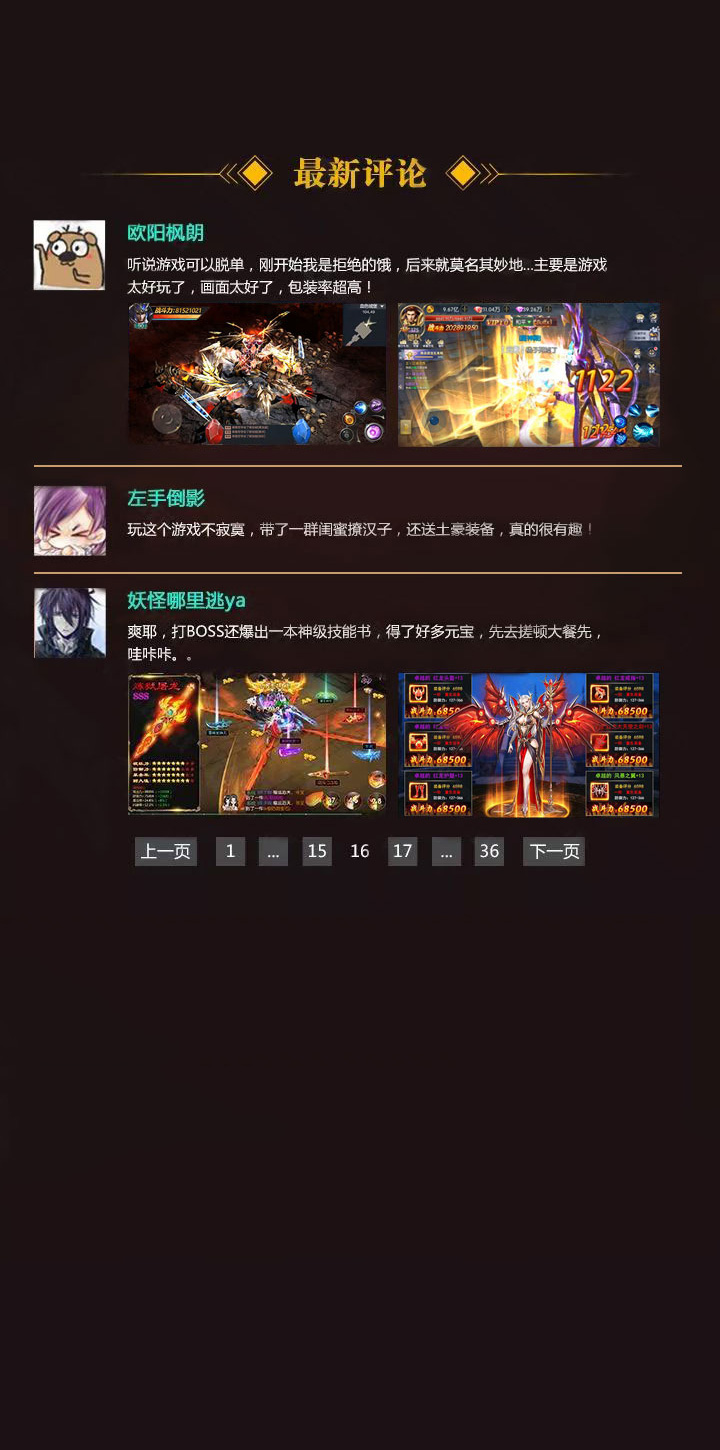
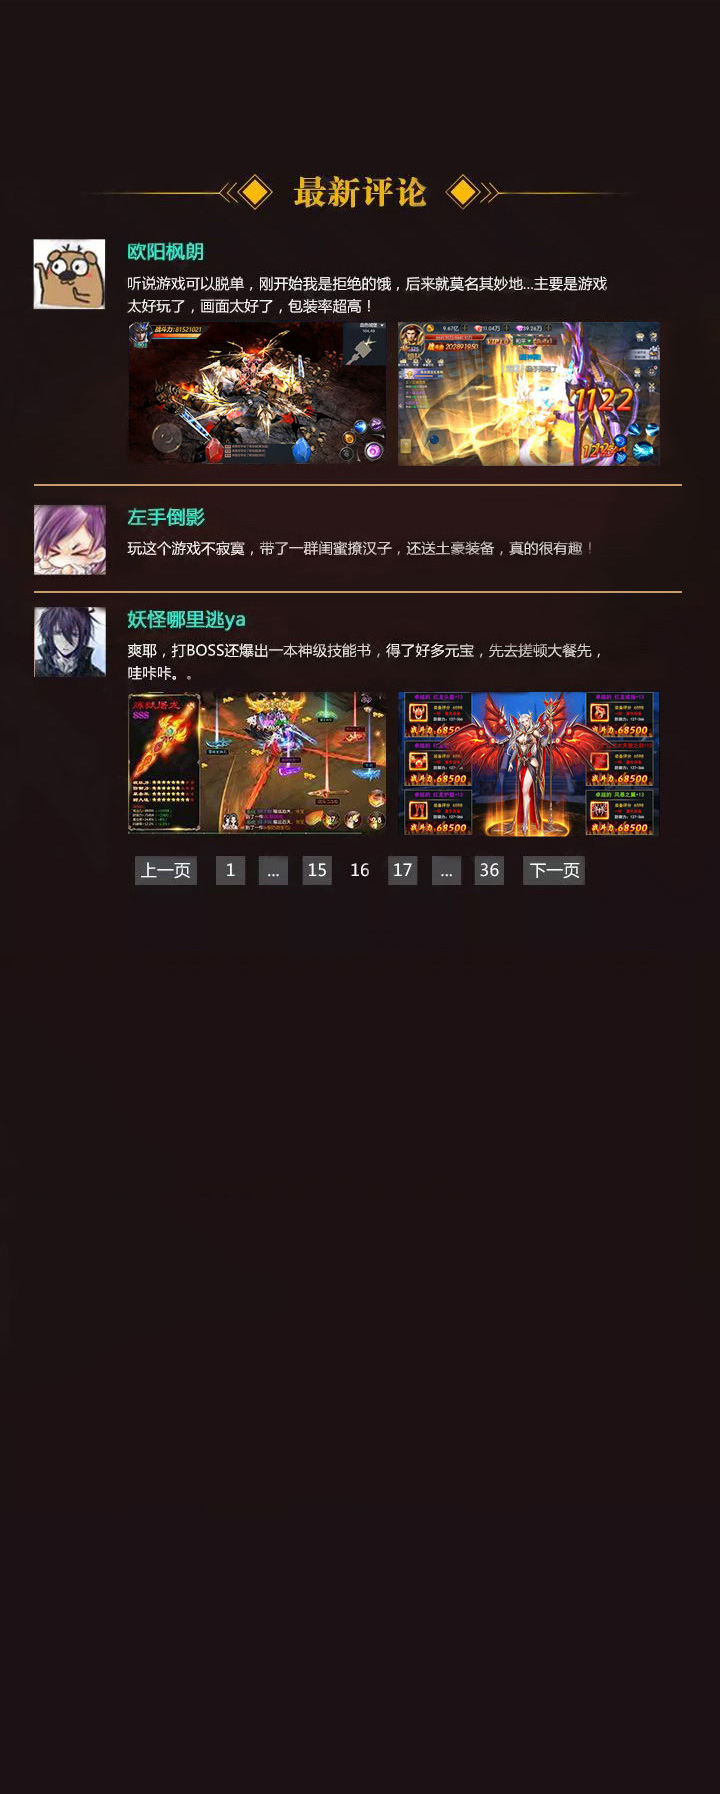
展示性h5修改

Changed region(s): [[0.0306, 0.0931, 0.9472, 0.6207]]

diff --git a/index.html b/index.html
@@ -1,146 +1,114 @@
+
 <!DOCTYPE html>
-<html lang="en">
-
+<html>
 <head>
-    <meta charset="UTF-8">
-    <meta name="viewport" content="width=device-width,initial-scale=1.0,maximum-scale=1.0,user-scalable=0">
-    <meta http-equiv="X-UA-Compatible" content="ie=edge">
-    <title>Document</title>
-    <link href="https://cdn.bootcss.com/animate.css/3.7.0/animate.min.css" rel="stylesheet">
-    <style>
-        body,div{margin:0;padding: 0;}
-        body{overflow: hidden;}
-        
-        .top{z-index:99;position: fixed;top:0;left:0;width:100%;}
-        .top img{width:100%;}
+<meta http-equiv="Content-Type" content="text/html; charset=utf-8" />
+<title>勇者大陆</title>
+<meta name='viewport' content='width=device-width, initial-scale=1.0, maximum-scale=1.0'/>
+<!--<link rel="stylesheet" href="/dist/css/swiper.min.css">
+<link rel="stylesheet" href="/dist/css/animate.min.css">
+<script src="/dist/js/swiper.min.js"></script>
+<script src="/dist/js/swiper.animate.min.js"></script>-->
 
-        .wrap{position: absolute;left: 0;top:0;width:100%;height:100%;transition: 1s;}
-        .wrap>div{width:100%;height:100%;overflow: hidden;position: relative;}
-        .wrap>div:nth-child(1){background:url(images/bg.jpg) no-repeat;background-size: 100% 100%;}
-        .wrap>div:nth-child(2){background:url(images/2.gif) no-repeat;background-size: 100% auto;}
-        .wrap>div:nth-child(3){background:url(images/3.jpg) no-repeat;background-size: 100% auto;}
-  
+<link rel="stylesheet" href="css/swiper.min.css">
+<link rel="stylesheet" href="css/animate.min.css">
+<script src="js/swiper.min.js"></script>
+<script src="js/swiper.animate.min.js"></script>
 
-        .con{}
-        .con img{width:100%;position: absolute;}
-        .con .btn{width:50%;;bottom:4%;left:50%;margin-left:-25%;}
+<style>
+*{margin:0;padding:0;}
+html,body{height:100%;}
+body{font-family:"microsoft yahei";}
+img{ pointer-events: none; }
 
-        .handle{position: fixed;z-index: 99;right: 16px;bottom:16px;}
-        .handle span{display: block;width:12px;height: 12px;background: #ccc;border-radius: 10px;margin:8px auto;}
-        .handle span.active{background: #fff;width:20px;height: 20px;}
+.top{width:100%;position: fixed;top:0;left: 0;right: 0;z-index:99;}
+.top img{width:100%;}
 
-        #scroll{color:#999;font-size:30px;position: fixed;bottom: 0px;left: 50%;transform: rotate(90deg)!important;}
-    </style>
+.swiper-container {
+  /*  width: 320px;
+    height: 480px;*/
+	width: 100%;
+  height: 100%;
+	background:#fff;
+}  
+.swiper-slide{width:100%;height:100%;}
+.swiper-slide:nth-child(1){background:url(images/bg.jpg) no-repeat left top;background-size:100% 100%;}
+.swiper-slide:nth-child(2){background:url(images/2.gif) no-repeat left top;background-size:100% auto;}
+.swiper-slide:nth-child(3){background:url(images/3.jpg) no-repeat left top;background-size:100% auto;}
+.swiper-slide:nth-child(1) img:nth-child(1){visibility: visible!important;}
+img{
+	display:block;
+}
+.swiper-pagination-bullet {
+width: 6px;
+height: 6px;
+background: #fff;
+opacity: .4;
+}
+.swiper-pagination-bullet-active {
+opacity: 1;
+}
+@-webkit-keyframes tipmove{0%{bottom:10px;opacity:0}50%{bottom:15px;opacity:1}100%{bottom:20px;opacity:0}}
+.ani{
+	position:absolute;
+	}
+.txt{
+	position:absolute;
+}
+#array{
+	position:absolute;z-index:999;-webkit-animation: tipmove 1.5s infinite ease-in-out;
+}
+</style>
 </head>
 
 <body>
-    <div class="top"><img src="images/1.gif"></div>
-    <div class="wrap">
-        <div>
-            <span class="con">
-                <img src="images/main.png" style="bottom:12%;">
-                <img src="images/btn.png" class="btn delay-1s">
-            </span>
+<div class="top"><img src="images/1.gif"></div>
+<div class="swiper-container">
+    <div class="swiper-wrapper">
+    <!-------------slide1----------------->
+        <section class="swiper-slide">
+            <img src="images/main.png" class="ani resize" style="width:100%;left:0;top:50%">
+          <img src="images/btn.png" class="ani resize" style="width:50%;left:50%;bottom:6%;margin-left:-25%;" swiper-animate-effect="fadeInUp" swiper-animate-delay="0.1s">
+        </section>
+     <!---------------slide2-------------->
+        <section class="swiper-slide">
+          <img src="images/btn.png" class="ani resize" style="width:50%;left:50%;bottom:6%;margin-left:-25%;" swiper-animate-effect="fadeInUp" swiper-animate-duration="0.5s" swiper-animate-delay="0.1s">
+        </section>
+     <!----------------slide3-------------->
+        <section class="swiper-slide">
+          <img src="images/btn.png" class="ani resize" style="width:50%;left:50%;bottom:6%;margin-left:-25%;" swiper-animate-effect="fadeInUp" swiper-animate-duration="0.5s" swiper-animate-delay="0.1s">
         </div>
-        <div>
-            <span class="con">
-                    <img src="images/btn.png" class="btn">
-            </span>
-        </div>
-        <div>
-            <span class="con">
-                <img src="images/btn.png" class="btn">
-            </span>
-        </div>
-    </div>
-    <div class="handle">
-        <span></span>
-        <span></span>
-        <span></span>
-    </div>
-    <!-- <span id="scroll" class="">&gt;</span>animated infinite fadeInDown -->
-    <script>
-        window.onload = function () {
-            console.log(parseInt('30px'))
-            var viewportH = window.innerHeight || document.documentElement.clientHeight || document.body.clientHeight;
-            document.body.style.height = viewportH + 'px';
-            var len = document.querySelector('.wrap').querySelectorAll('div').length;
+    
+   <img src="images/web_swipe_tip.png" style="width:20px;height:15px; bottom:0; left:50%;margin-left:-10px;" id="array" class="resize"> 
+  <div class="swiper-pagination"></div>  
+</div>
 
-            var startY = 0,
-                moveEndY = 0,
-                dis = 0,
-                isRun = true;
 
-            document.addEventListener('touchstart', function (e) {
-                startY = e.touches[0].pageY;
-            });
-
-            document.addEventListener('touchmove', function (e) {
-                moveEndY = e.touches[0].pageY;
-                dis = moveEndY - startY;
-            });
-
-            document.addEventListener('touchend', function (e) {
-                if(isRun){
-                    isRun = false;
-                    var a = getEleT('.wrap');
-                    if (dis && dis < -30 && a>-(len-1)*viewportH) {
-                        document.querySelector('.wrap').style.top = a-viewportH + 'px';
-                    }
-                    if (dis && dis > 30 && a<0) {
-                        document.querySelector('.wrap').style.top = a+viewportH + 'px';
-                    }
-                    if(dis && (dis > 30 || dis < -30)){
-                        setTimeout(function(){
-                            showCon('bounceInUp');
-                        },1000)
-                    }
-                    isRun = true;
-                }
-                
-                dis = 0;//不滑动时重置dis,让touchend不会触发top的改变
-            });
-
-            function getEleT(ele){
-                var a = document.querySelector(ele).style.top;
-                a=a?a:0;
-                a = String(a).replace('px','');
-                return Number(a);
-            }
-
-            showCon('bounceInUp');
-
-            function showCon(animationName,callback){
-                document.querySelectorAll('.con').forEach(function(item){
-                    item.style.display = 'none'
-                });
-                var num = Math.abs(-getEleT('.wrap')/viewportH);
-
-                document.querySelector('.handle').querySelectorAll('span').forEach(function(item){
-                    item.classList.remove('active');
-                });
-                document.querySelector('.handle').querySelectorAll('span')[num].classList.add('active');
-
-                var curDiv = document.querySelector('.wrap').querySelectorAll('.con')[num];
-                curDiv.style.display = "block";
-                curDiv.querySelectorAll('img') && curDiv.querySelectorAll('img').forEach(function(item){
-                    animateCSS(item,animationName,callback);
-                })
-                
-            }
-            
-
-            function animateCSS(node, animationName, callback) {
-                node.classList.add('animated', animationName)
-                function handleAnimationEnd() {
-                    node.classList.remove('animated', animationName)
-                    node.removeEventListener('animationend', handleAnimationEnd)
-                    if (typeof callback === 'function') callback()
-                }
-                node.addEventListener('animationend', handleAnimationEnd)
-            }
-        }
-    </script>
+<script>
+  window.onload = function(){
+    var firImgH = document.querySelectorAll('img')[1].innerHeight || document.querySelectorAll('img')[1].clientHeight || document.querySelectorAll('img')[1].clientHeight;
+    document.querySelectorAll('img')[1].style.marginTop = -firImgH/2 + 'px';
+  }
+  var mySwiper = new Swiper ('.swiper-container', {
+    direction : 'vertical',
+    pagination: {
+	   el:'.swiper-pagination',
+    },
+    mousewheel: true,
+    on:{
+	  init: function(){
+        swiperAnimateCache(this);
+        swiperAnimate(this);
+        var firImgH = document.querySelectorAll('img')[1].innerHeight || document.querySelectorAll('img')[1].clientHeight || document.querySelectorAll('img')[1].clientHeight;
+    document.querySelectorAll('img')[1].style.marginTop = -firImgH/2 + 'px';
+ 	  },
+      slideChangeTransitionEnd: function(){
+  	    swiperAnimate(this);
+        var firImgH = document.querySelectorAll('img')[1].innerHeight || document.querySelectorAll('img')[1].clientHeight || document.querySelectorAll('img')[1].clientHeight;
+    document.querySelectorAll('img')[1].style.marginTop = -firImgH/2 + 'px';
+      }
+    }
+  })      
+  </script>
 </body>
-
 </html>

diff --git a/test.html b/test.html
@@ -35,12 +35,7 @@ body{
 }  
 .swiper-slide{
 }
-.swiper-slide{
-	width:100%;
-	height:100%;
-	background:url(upload/bg.jpg) no-repeat left top;
-	background-size:100% 100%;
-}
+.swiper-slide{width:100%;height:100%;background:url(upload/bg.jpg) no-repeat left top;background-size:100% 100%;}
 img{
 	display:block;
 }
